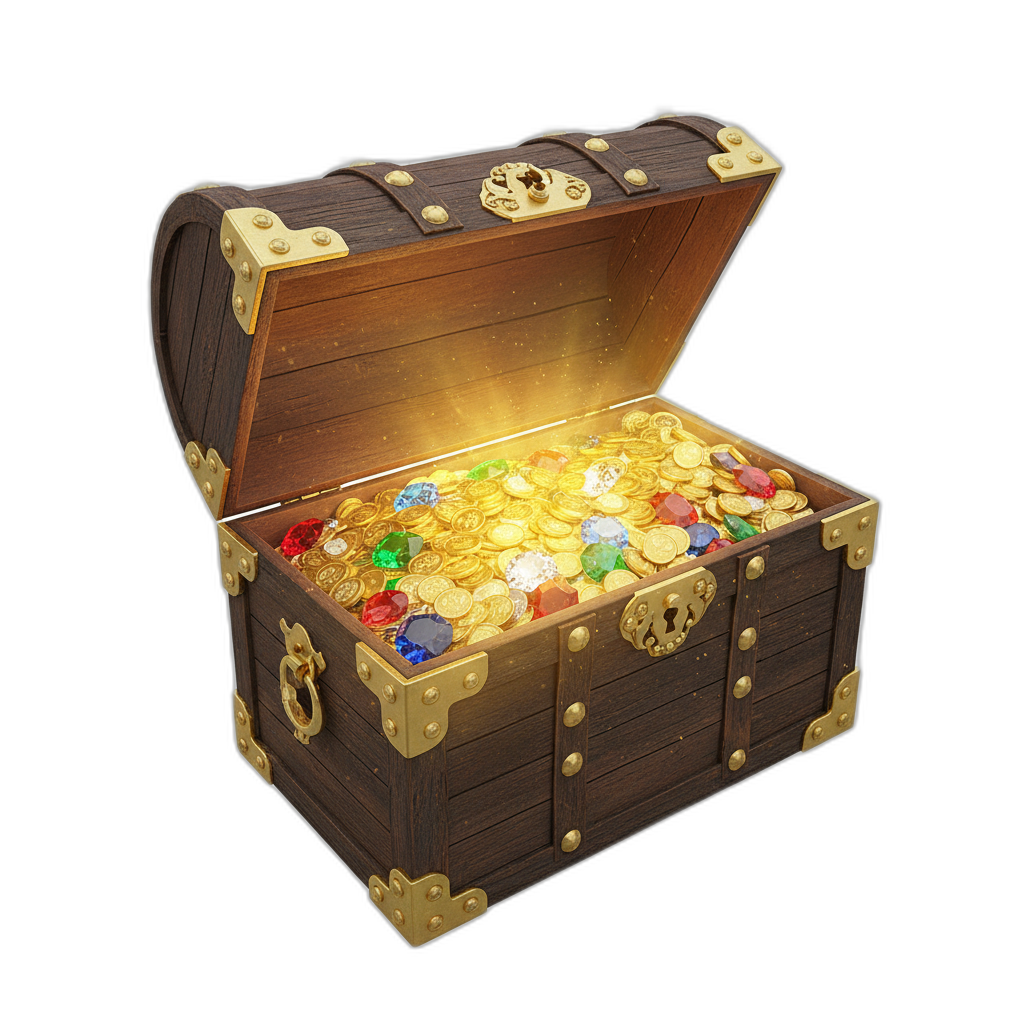
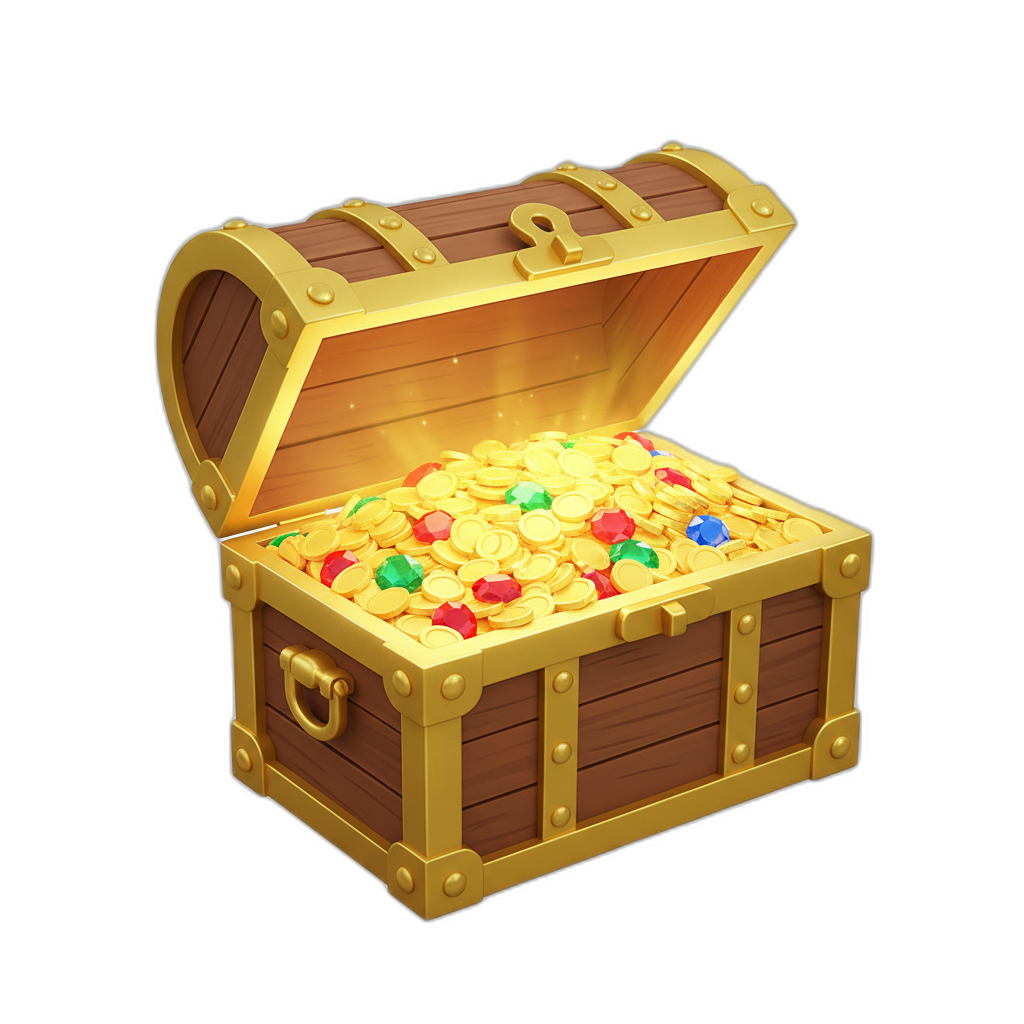
Finder drill: real treasure chest on rep-complete + bundle fallback
Two fixes on the success flourish.

The chest image wasn't loading because Bundle.module.url was
looking only under the "treasure" subdirectory — but SwiftPM's
generated resource bundle flattens nested paths, so at runtime
the asset lives at the bundle root. Added a root-level fallback
(same pattern the furry-folders loader uses). Now the chest
actually shows instead of falling back to the sparkles SF Symbol.

Regenerated the chest image with a cleaner, hero-sized stylized
composition — wooden chest with brass fittings, lid flung up,
overflowing with gold coins + red/emerald/sapphire gems, warm
light spilling out. Reads better at the 56pt size the coaching
panel renders it.

diff --git a/Sources/KindaVimTutor/Views/Canvas/FinderDrillCoachingView.swift b/Sources/KindaVimTutor/Views/Canvas/FinderDrillCoachingView.swift
@@ -126,10 +126,11 @@ struct FinderDrillCoachingView: View {
 
     @ViewBuilder
     private var treasureChestImage: some View {
-        if let url = Bundle.module.url(
+        let url = Bundle.module.url(
             forResource: "chest-open", withExtension: "png",
             subdirectory: "treasure"
-        ), let image = NSImage(contentsOf: url) {
+        ) ?? Bundle.module.url(forResource: "chest-open", withExtension: "png")
+        if let url, let image = NSImage(contentsOf: url) {
             Image(nsImage: image)
                 .resizable()
                 .interpolation(.high)
